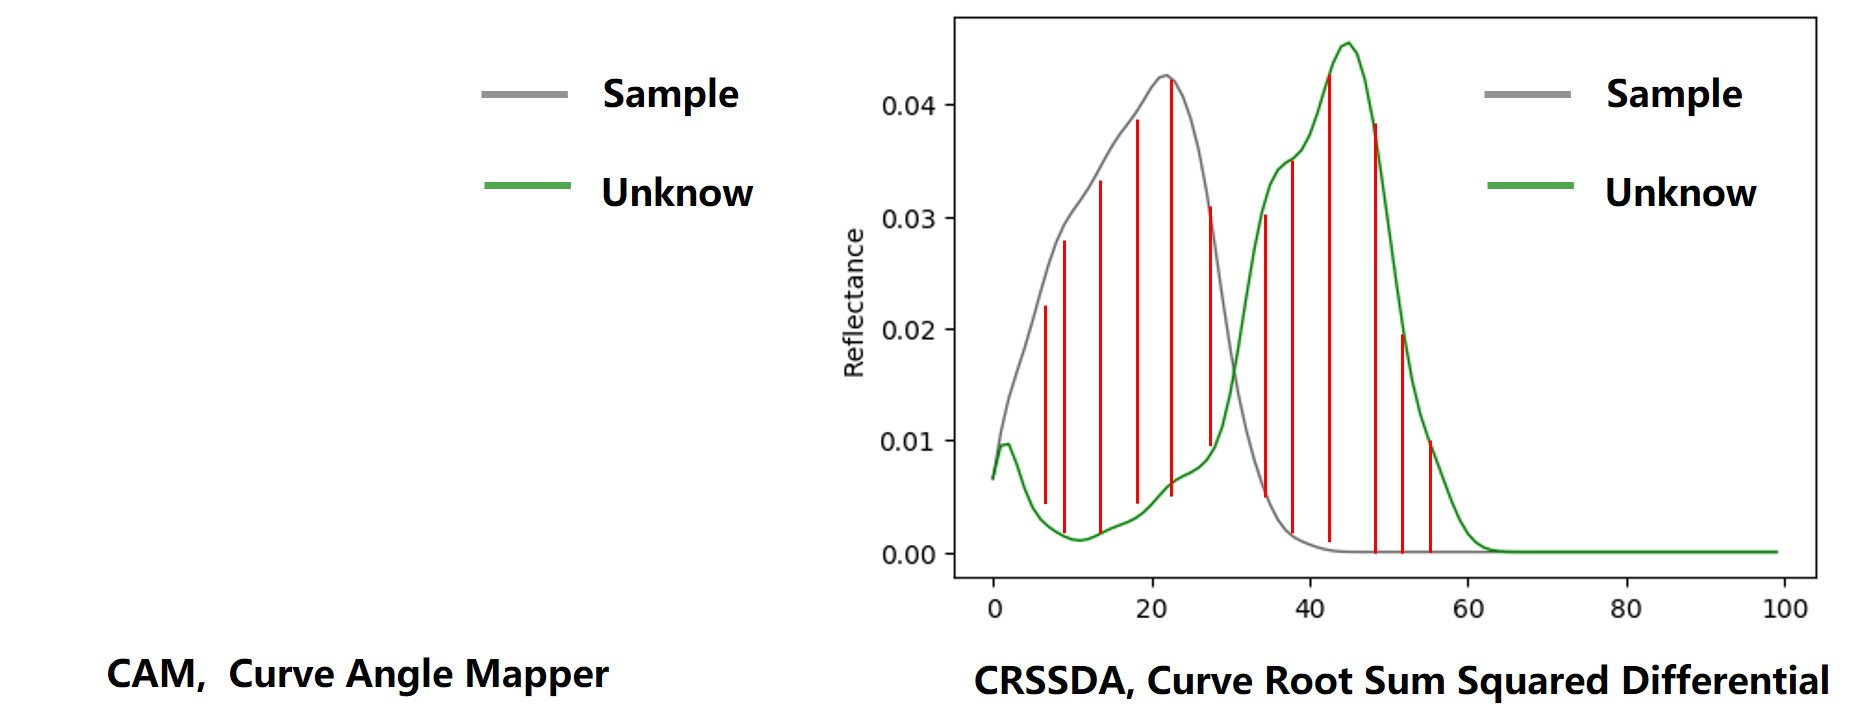
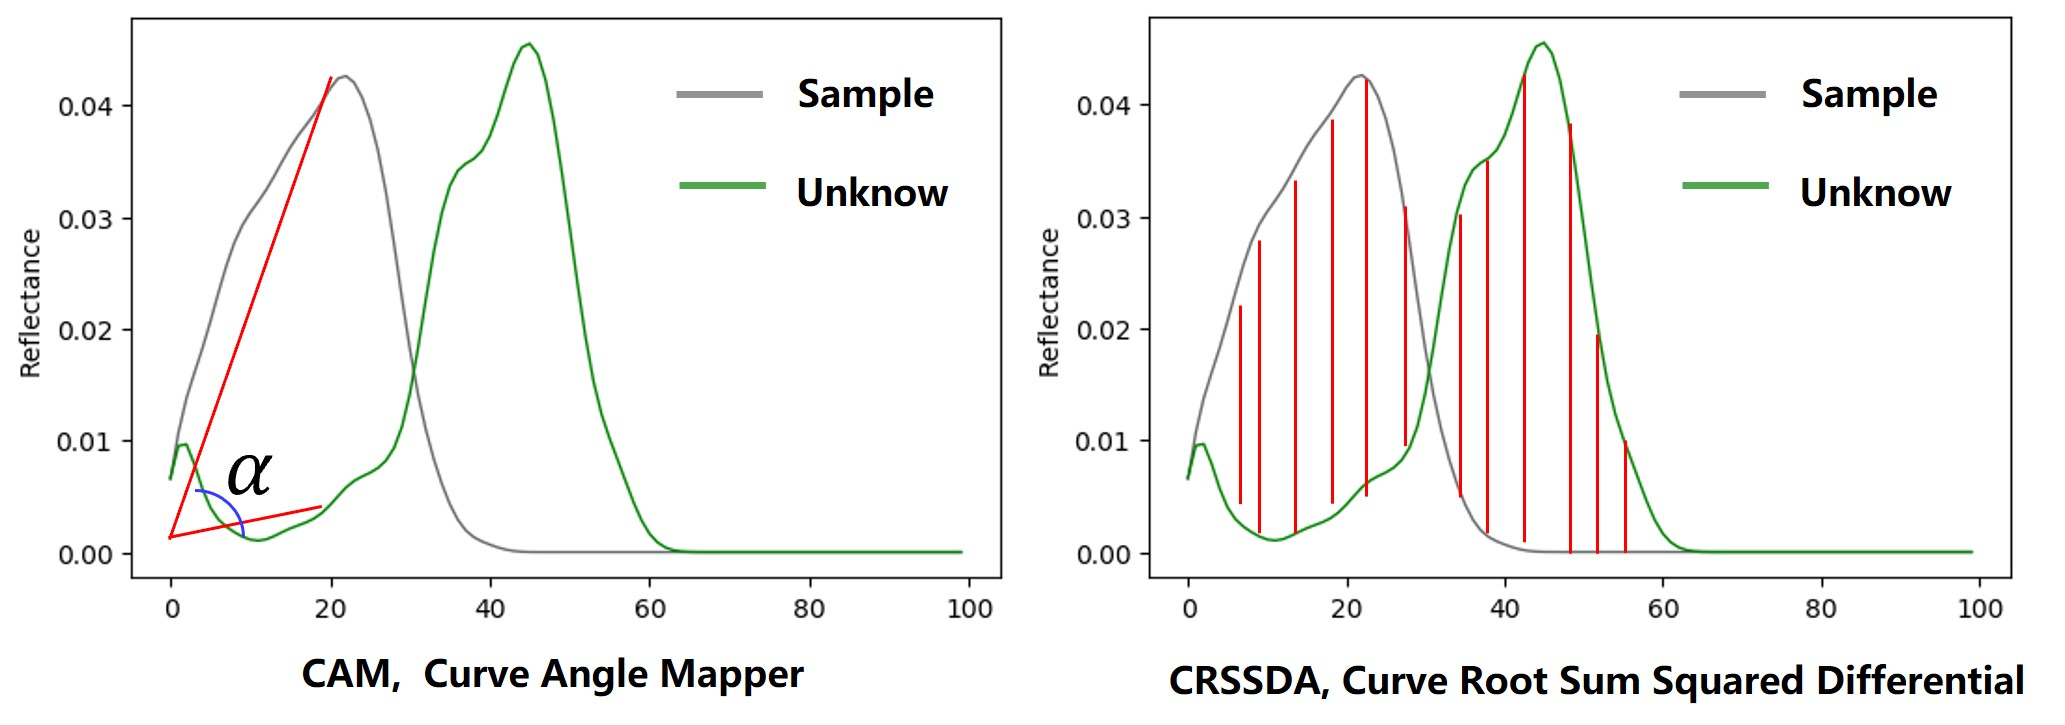
--

diff --git a/README.md b/README.md
@@ -2,7 +2,7 @@
  * @Author: wanhaoming wanhaoming@outlook.com
  * @Date: 2024-06-24 23:58:49
  * @LastEditors: wanhaoming wanhaoming@outlook.com
- * @LastEditTime: 2024-06-25 00:47:07
+ * @LastEditTime: 2024-06-25 22:58:50
  * @FilePath: \Curve-Matching\README.md
  * @Description: 这是默认设置,请设置`customMade`, 打开koroFileHeader查看配置 进行设置: https://github.com/OBKoro1/koro1FileHeader/wiki/%E9%85%8D%E7%BD%AE
 -->
@@ -26,17 +26,27 @@ Traditional OBIA (Object-Based Image Analysis) methods were adopted to cluster t
 ## 2. Extracting Features  
 The key point of this method is how to express different structure data as curves.
 
+### 2.1. For High-Resolution RGB imagery (Sentinel-2)
+
+Drawing the histogram on each band.  
+
+![img](https://github.com/XavierMFC/Curve-Matching/blob/main/data/example_data/RGB.jpg)  
+
 ### 2.1. For Multi-spectral Images (Sentinel-2)
 
 Each pixel location involves 12 bands; therefore, simply calculate the mean value based on the object.
-![img](https://github.com/XavierMFC/Curve-Matching/blob/main/data/example_data/%E5%9B%BE%E7%89%873.png)
+![img](https://github.com/XavierMFC/Curve-Matching/blob/main/data/example_data/Multispectral.jpg)
 
 ### 2.2. For LiDAR Data
 
 Before we start extracting features, let's assume that the same tree has the same structure, such as height and the shape of the canopy.
 Based on this assumption, the curve that reflects the tree's geo-structure can be generated by counting the lighting numbers in the vertical direction.
-![img](https://github.com/XavierMFC/Curve-Matching/blob/main/data/example_data/%E5%9B%BE%E7%89%871.png)
+![img](https://github.com/XavierMFC/Curve-Matching/blob/main/data/example_data/GEOStructure-2.png)  
+![img](https://github.com/XavierMFC/Curve-Matching/blob/main/data/example_data/GEOStructure-1.png)  
+![img](https://github.com/XavierMFC/Curve-Matching/blob/main/data/example_data/LIDAR.jpg)  
 
 ## How to Classify?
-Now, all different structure data has been described as curves. You can use any ML algorithm you like to classify them. However, according to our experiment, curve matching might be better, as it can achieve higher accuracy performance with fewer samples.
-    
+
+Now, all different structure data has been described as curves. You can use any ML algorithm you like to classify them. However, according to our experiment, curve matching might be better, as it can achieve higher accuracy performance with fewer samples.  
+
+![img](https://github.com/XavierMFC/Curve-Matching/blob/main/data/example_data/CurveMatch.jpg)
